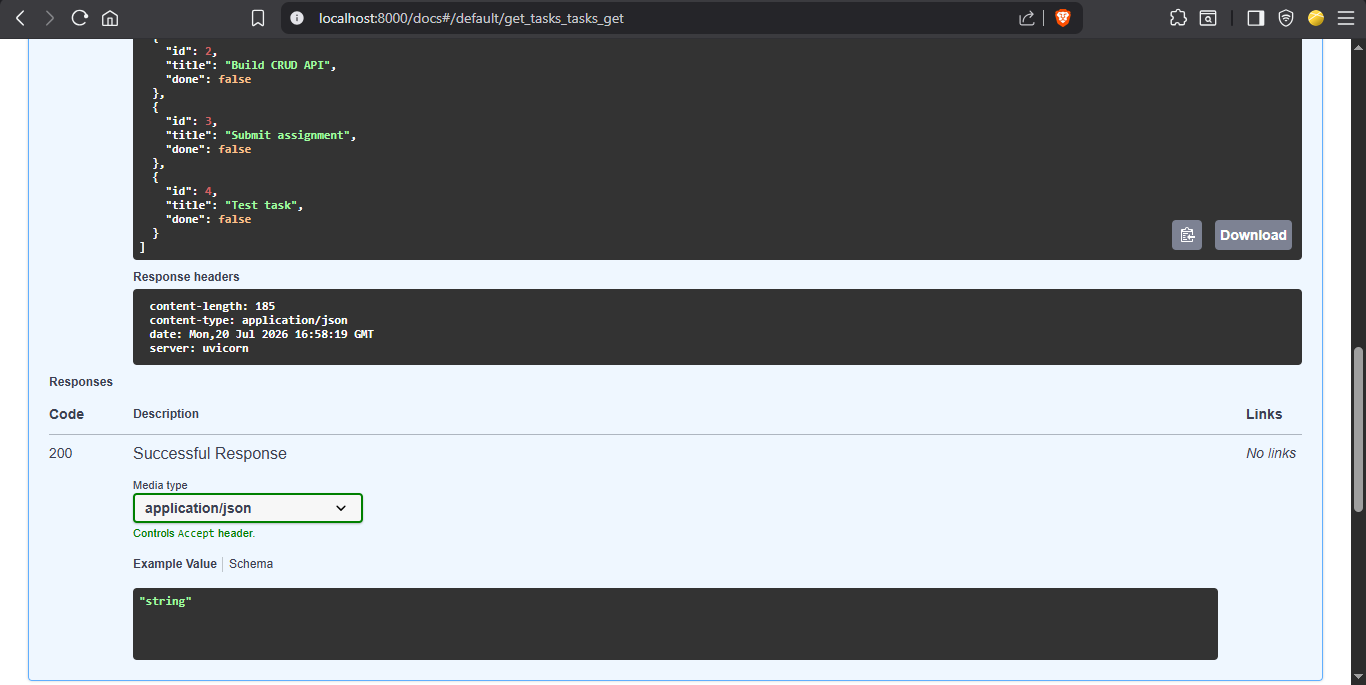
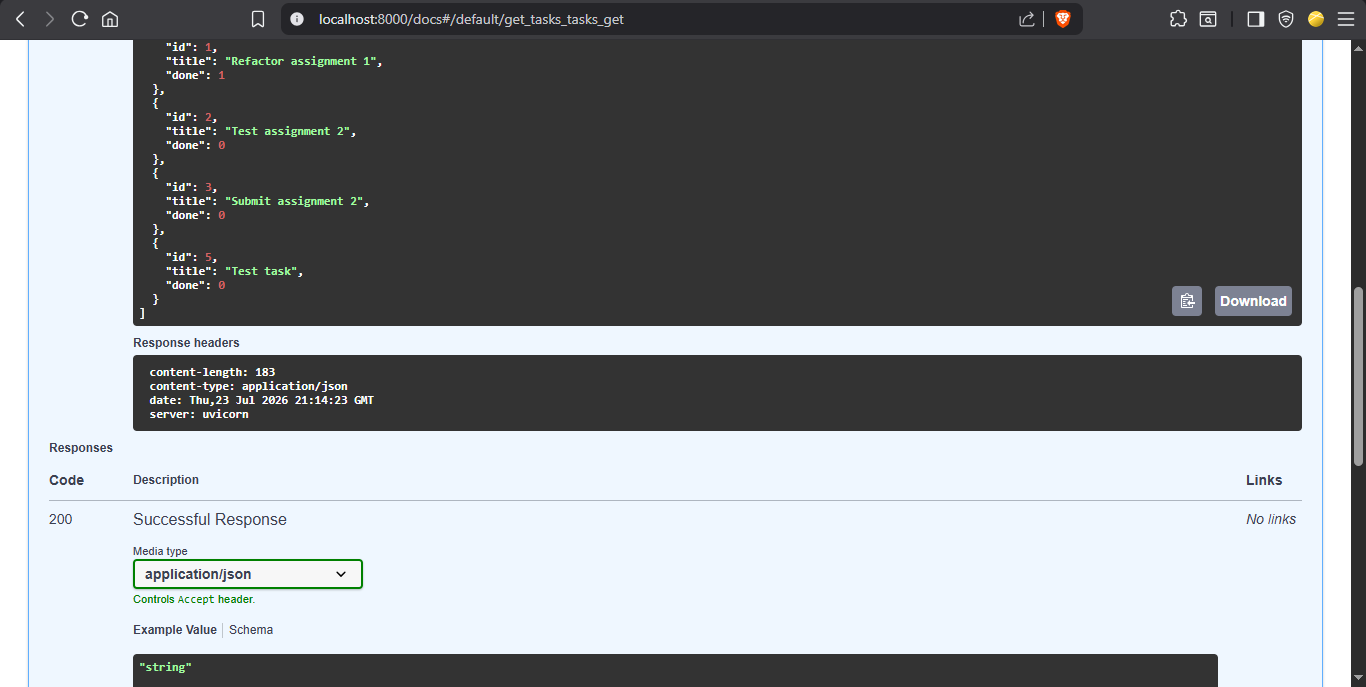
docs: update README and screenshots for SQLite persistence

diff --git a/README.md b/README.md
@@ -6,7 +6,7 @@
 ![pytest](https://img.shields.io/badge/pytest-9.1-orange?style=for-the-badge&logo=pytest)
 ![Ruff](https://img.shields.io/badge/Ruff-0.15-red?style=for-the-badge&logo=ruff)
 
-A minimal FastAPI backend with health checks, service status, and a **full CRUD API** for managing tasks. Built for the FlyRank BE-01 assignment – demonstrates modern Python project structure, testing, and CI-ready practices.
+A minimal FastAPI backend with a full CRUD API for managing tasks, now with **persistent SQLite storage**. Built for the FlyRank Backend AI Engineering track – demonstrates separation of concerns (layered architecture) and professional Python project structure.
 
 ## Tech Stack
 
@@ -16,6 +16,7 @@ A minimal FastAPI backend with health checks, service status, and a **full CRUD 
 - **pytest** – testing
 - **ruff** – linting + formatting
 - **pre-commit** – quality gates
+- **SQLite** – lightweight, serverless database
 
 ## Setup
 
@@ -23,6 +24,9 @@ A minimal FastAPI backend with health checks, service status, and a **full CRUD 
 # Clone the repository
 git clone https://github.com/SHaiderM16/task-manager-api.git
 cd task-manager-api
+
+# Switch to the branch for this assignment
+git checkout a2-sqlite
 
 # Install dependencies
 uv sync
@@ -43,8 +47,6 @@ uv run fastapi run app/main.py
 | Method | Endpoint | Description | Status Codes |
 |--------|----------|-------------|--------------|
 | GET | `/` | Root message | 200 |
-| GET | `/health` | Health check | 200 |
-| GET | `/api/v1/status` | Service metadata | 200 |
 | GET | `/tasks` | List all tasks | 200 |
 | GET | `/tasks/{id}` | Get a single task | 200, 404 |
 | POST | `/tasks` | Create a new task | 201, 400 |
@@ -65,12 +67,12 @@ Expected response:
 
 ```
 HTTP/1.1 201 Created
-date: Mon, 20 Jul 2026 16:56:54 GMT
+date: Thu, 23 Jul 2026 21:12:32 GMT
 server: uvicorn
 content-length: 41
 content-type: application/json
 
-{"id":4,"title":"Test task","done":false}
+{"id":5,"title":"Test task","done":false}
 ```
 
 List all tasks:
@@ -78,6 +80,29 @@ List all tasks:
 ```bash
 curl -i http://localhost:8000/tasks
 ```
+
+## Database
+
+This project uses **SQLite** (`tasks.db`) for persistent storage.
+
+- **Why SQLite?** Zero configuration, serverless, single-file database.
+- **Schema:** `tasks` table with `id` (INTEGER PRIMARY KEY), `title` (TEXT), `done` (INTEGER, 0/1).
+- **Auto-creation:** The database and table are created automatically on first run.
+- **Seeding:** Three example tasks are inserted only when the table is empty (no duplicates on restart).
+
+### Database Screenshot
+
+![DB Browser for SQLite](screenshots/db-browser.png)
+
+### Manual SQL Example
+
+Opening `tasks.db` in DB Browser and running:
+
+```sql
+SELECT * FROM tasks WHERE done = 1;
+```
+
+Returns all completed tasks.
 
 ## Swagger UI
 